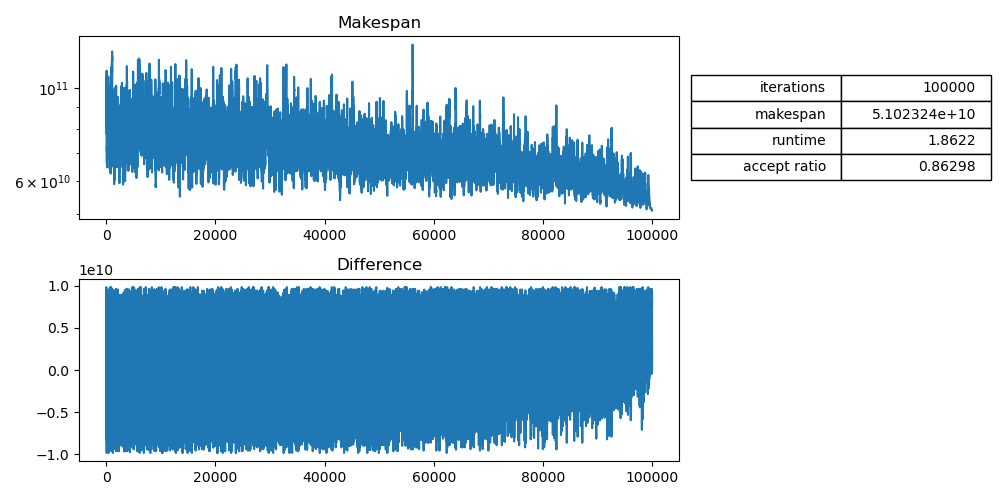
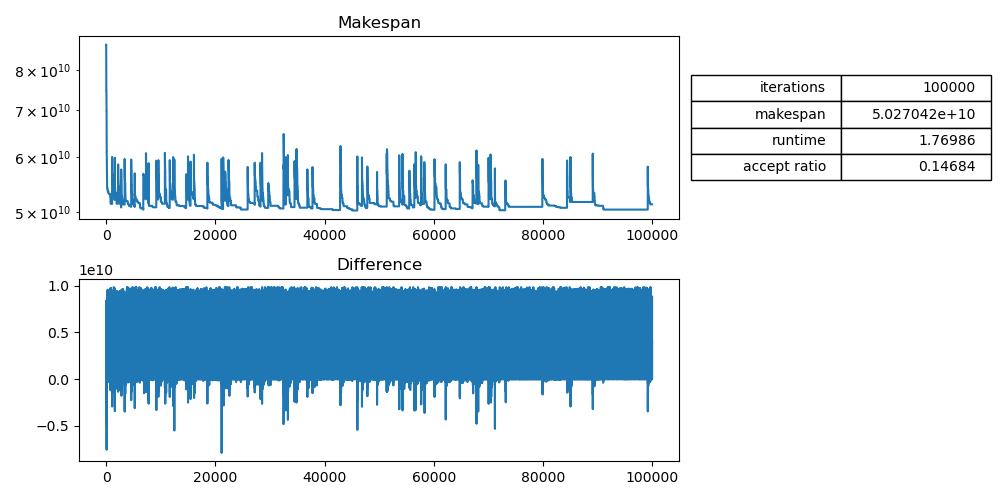
fixed the exponential decay method mistake with accepting bad moves

diff --git a/simann/p_functions.py b/simann/p_functions.py
@@ -21,14 +21,14 @@ def linearBadmoveAccept(difference, temperature, good_accept, bad_accpet):
 
 def exponentialDecay(difference, temperature, good_accept, bad_accpet):
     """Use an exponential function of the difference."""
-    if difference < 0: # good-move
+    if difference <= 0: # good-move
         # If the improvement is too good. We want to make the algorithm less 'greedy'.
         return random.random() < math.exp(difference / good_accept)
     else: # bad-move
         # If the temperature approaches 0, we are getting more careful, so the chance
         # of still accepting gets smaller and smaller.
         # Furthermore, the larger the difference, the smaller the chance that we will accept the move.
-        return random.random() < temperature * math.exp(-difference / bad_accpet)
+        return random.random() < temperature * math.exp(-bad_accpet / difference)
 
 def exponentialDecayNonInc(difference, temperature, good_accept, bad_accpet):
     """Use an exponential function of the difference."""
@@ -39,4 +39,4 @@ def exponentialDecayNonInc(difference, temperature, good_accept, bad_accpet):
         # If the temperature approaches 0, we are getting more careful, so the chance
         # of still accepting gets smaller and smaller.
         # Furthermore, the larger the difference, the smaller the chance that we will accept the move.
-        return random.random() < temperature * math.exp(-difference / bad_accpet)
+        return random.random() < temperature * math.exp(-bad_accpet / difference )

diff --git a/simann/acceptance_comparison.py b/simann/acceptance_comparison.py
@@ -10,10 +10,10 @@ instance = SimulatedAnnealing.fromFile(jobs_file, m)
 # output filename
 output_prefix = "./experiments/accept_exp"
 
-accept_exp1 = instance.start(100000, exponentialDecay, 9.8e9, 4e12) #tried to use max(jobs_file) for the third entry to get the largest single processing time as good_accept, but that does not work. 
+accept_exp1 = instance.start(100000, exponentialDecay, 9.8e9, 4e10) #tried to use max(jobs_file) for the third entry to get the largest single processing time as good_accept, but that does not work. 
 accept_exp1.plotResults("{}1.png".format(output_prefix))
 
-accept_exp2 = instance.start(100000, exponentialDecayNonInc, 8e10, 4e12)
+accept_exp2 = instance.start(100000, exponentialDecayNonInc, 8e10, 4e10)
 accept_exp2.plotResults("{}2.png".format(output_prefix))
 
 
